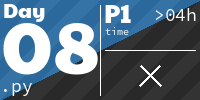
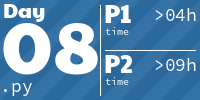
2025, day 8, part 2

diff --git a/ibidem/advent_of_code/y2025/dec08.py b/ibidem/advent_of_code/y2025/dec08.py
@@ -1,6 +1,6 @@
 #!/usr/bin/env python
 import itertools
-from heapq import heapify_max, heappush_max, heappushpop_max
+from heapq import heapify_max, heappush_max, heappushpop_max, heapify, heappop
 from math import prod
 
 from alive_progress import alive_it
@@ -47,8 +47,31 @@ def part1(vectors, num_distances=1000):
     return prod(len(c) for c in three_longest)
 
 
-def part2(input):
-    return None
+def all_distances(vectors):
+    heap = []
+    heapify_max(heap)
+    for v1, v2 in alive_it(itertools.combinations(vectors, 2)):
+        distance = Vector3(v1 - v2).length
+        entry = (distance, tuple(int(x) for x in v1), tuple(int(x) for x in v2))
+        heappush_max(heap, entry)
+    return heap
+
+
+def part2(vectors):
+    len_vectors = len(vectors)
+    heap = all_distances(vectors)
+    heapify(heap)
+    circuits = {}
+    while heap:
+        _, v1, v2 = heappop(heap)
+        l1 = circuits.get(v1, {v1})
+        l2 = circuits.get(v2, {v2})
+        circuit = l1 | l2
+        if len(circuit) == len_vectors:
+            break
+        for v in circuit:
+            circuits[v] = circuit
+    return v1[0] * v2[0]
 
 
 if __name__ == "__main__":

diff --git a/README.rst b/README.rst
@@ -44,7 +44,7 @@ To add a pre-commit hook that generates tiles, copy ``pre-commit`` to ``.git/hoo
 
 .. AOC TILES BEGIN - 2025
 
-2025 - 15 ⭐
+2025 - 16 ⭐
 .............
 
 .. image:: Media/2025/01.png
